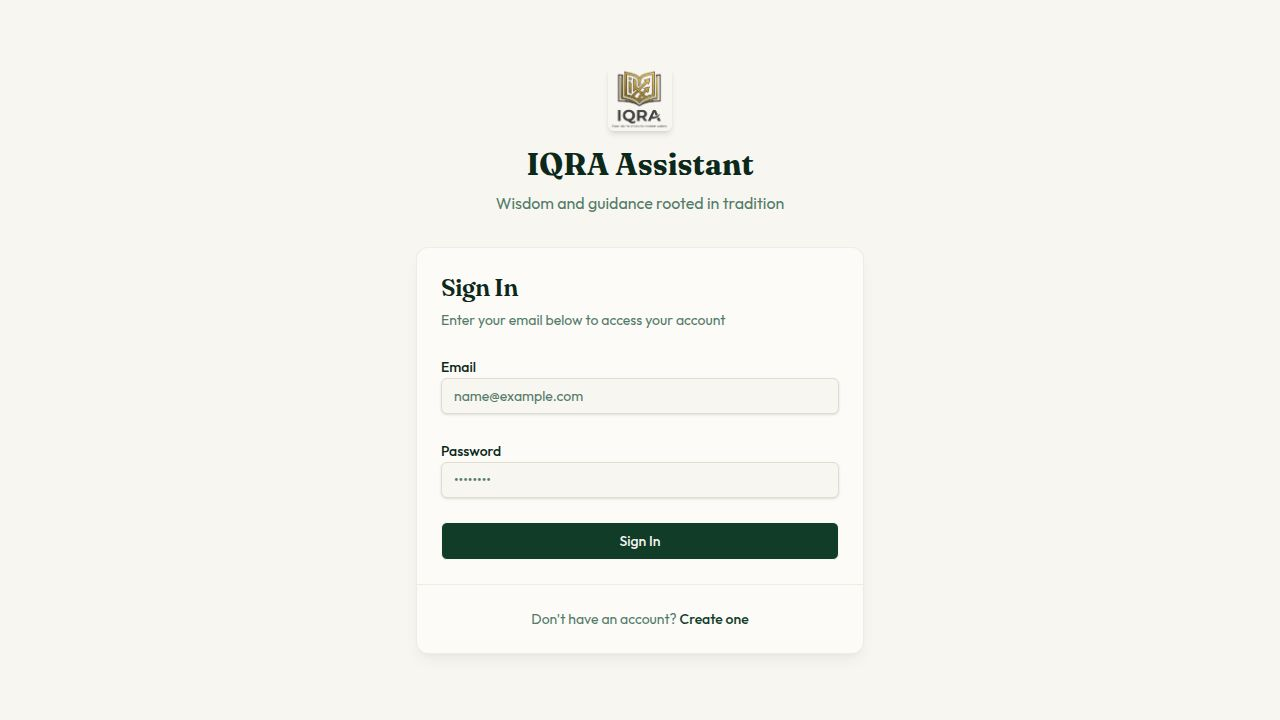
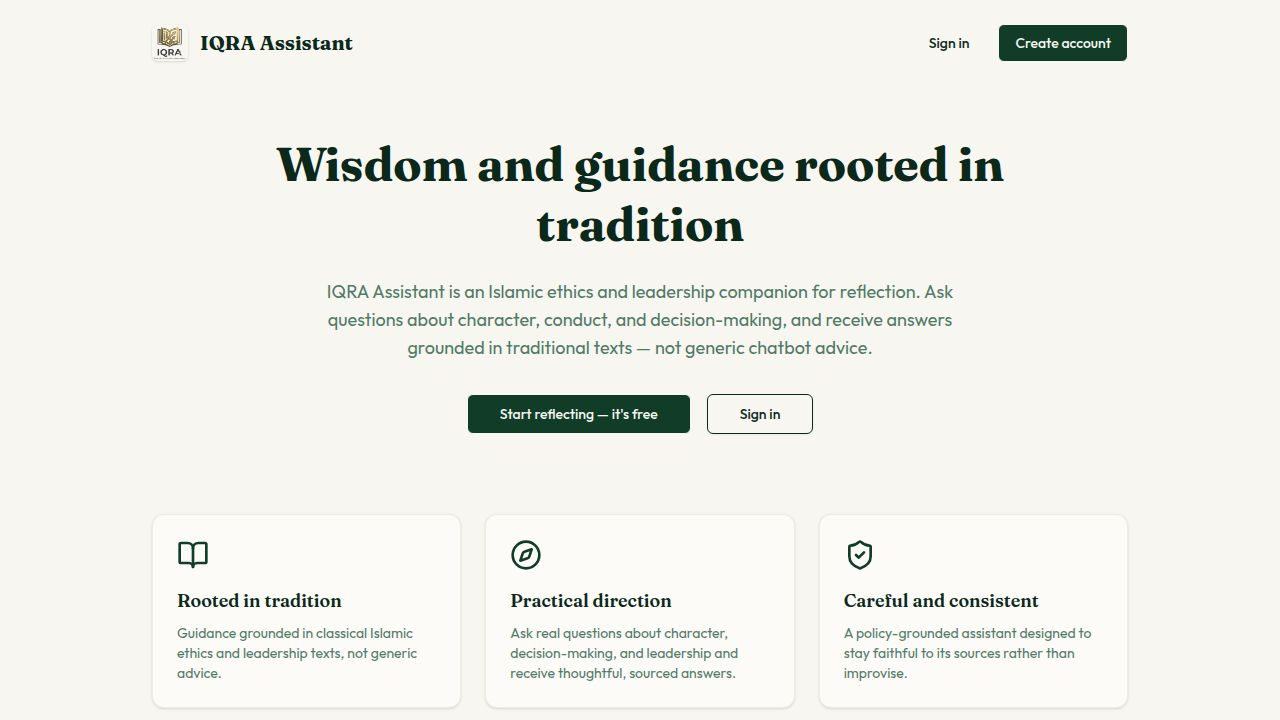
Merged changes from 7eo842wr/main
Replit-Task-Id: d5fe9a24-ad82-4526-b6fe-4df92f9617cc

diff --git a/artifacts/iqra-assistant/src/pages/landing.tsx b/artifacts/iqra-assistant/src/pages/landing.tsx
@@ -1,0 +1,96 @@
+import { Link } from "wouter";
+import { Button } from "@/components/ui/button";
+import { Card, CardContent } from "@/components/ui/card";
+import logoPng from "@/assets/logo.png";
+import { BookOpen, Compass, ShieldCheck } from "lucide-react";
+import { useSeo } from "@/hooks/use-seo";
+
+const PILLARS = [
+  {
+    icon: BookOpen,
+    title: "Rooted in tradition",
+    body: "Guidance grounded in classical Islamic ethics and leadership texts, not generic advice.",
+  },
+  {
+    icon: Compass,
+    title: "Practical direction",
+    body: "Ask real questions about character, decision-making, and leadership and receive thoughtful, sourced answers.",
+  },
+  {
+    icon: ShieldCheck,
+    title: "Careful and consistent",
+    body: "A policy-grounded assistant designed to stay faithful to its sources rather than improvise.",
+  },
+];
+
+export default function Landing() {
+  useSeo({
+    title: "IQRA Assistant — Islamic Ethics & Leadership Guidance",
+    description:
+      "IQRA Assistant offers wisdom and guidance rooted in traditional Islamic texts on ethics and leadership. Sign in or create a free account to start reflecting.",
+    robots: "index, follow",
+    canonicalPath: "/",
+  });
+
+  return (
+    <div className="min-h-screen bg-background">
+      <header className="flex items-center justify-between max-w-5xl mx-auto px-6 py-6">
+        <div className="flex items-center gap-3">
+          <img src={logoPng} alt="IQRA Assistant" className="w-9 h-9 rounded-md shadow-sm" />
+          <span className="font-serif text-xl font-bold text-foreground">IQRA Assistant</span>
+        </div>
+        <nav className="flex items-center gap-3">
+          <Link href="/login">
+            <Button variant="ghost" data-testid="link-nav-login">Sign in</Button>
+          </Link>
+          <Link href="/register">
+            <Button data-testid="link-nav-register">Create account</Button>
+          </Link>
+        </nav>
+      </header>
+
+      <main>
+        <section className="max-w-5xl mx-auto px-6 pt-12 pb-20 text-center">
+          <h1 className="font-serif text-4xl sm:text-5xl font-bold text-foreground leading-tight max-w-3xl mx-auto">
+            Wisdom and guidance rooted in tradition
+          </h1>
+          <p className="mt-6 text-lg text-muted-foreground max-w-2xl mx-auto">
+            IQRA Assistant is an Islamic ethics and leadership companion for reflection.
+            Ask questions about character, conduct, and decision-making, and receive
+            answers grounded in traditional texts — not generic chatbot advice.
+          </p>
+          <div className="mt-8 flex items-center justify-center gap-4">
+            <Link href="/register">
+              <Button size="lg" className="font-medium" data-testid="link-hero-register">
+                Start reflecting — it's free
+              </Button>
+            </Link>
+            <Link href="/login">
+              <Button size="lg" variant="outline" className="font-medium" data-testid="link-hero-login">
+                Sign in
+              </Button>
+            </Link>
+          </div>
+        </section>
+
+        <section className="max-w-5xl mx-auto px-6 pb-24 grid gap-6 sm:grid-cols-3">
+          {PILLARS.map(({ icon: Icon, title, body }) => (
+            <Card key={title} className="border-border/50 shadow-sm">
+              <CardContent className="pt-6">
+                <Icon className="w-8 h-8 text-primary mb-4" />
+                <h2 className="font-serif text-lg font-semibold text-foreground mb-2">{title}</h2>
+                <p className="text-sm text-muted-foreground">{body}</p>
+              </CardContent>
+            </Card>
+          ))}
+        </section>
+      </main>
+
+      <footer className="border-t border-border/50 py-8">
+        <p className="text-center text-sm text-muted-foreground">
+          &copy; {new Date().getFullYear()} IQRA Assistant
+        </p>
+      </footer>
+    </div>
+  );
+}

diff --git a/artifacts/iqra-assistant/src/entry-server.tsx b/artifacts/iqra-assistant/src/entry-server.tsx
@@ -1,0 +1,70 @@
+import type { ReactElement } from "react";
+import { QueryClient, QueryClientProvider } from "@tanstack/react-query";
+import { TooltipProvider } from "@/components/ui/tooltip";
+import { Router as WouterRouter } from "wouter";
+import Landing from "@/pages/landing";
+import Login from "@/pages/login";
+import Register from "@/pages/register";
+import "./index.css";
+
+export interface PrerenderedRoute {
+  path: string;
+  outFile: string;
+  title: string;
+  description: string;
+  robots: string;
+  canonicalPath: string;
+  Component: () => ReactElement;
+}
+
+// Anonymous, JS-free-friendly routes that get a build-time prerendered
+// static HTML shell (see scripts/prerender.mjs). Authenticated routes
+// (chat, donate, admin) depend on live session/data fetches and are
+// intentionally left to render purely client-side.
+export const PRERENDER_ROUTES: PrerenderedRoute[] = [
+  {
+    path: "/",
+    outFile: "index.html",
+    title: "IQRA Assistant — Islamic Ethics & Leadership Guidance",
+    description:
+      "IQRA Assistant offers wisdom and guidance rooted in traditional Islamic texts on ethics and leadership. Sign in or create a free account to start reflecting.",
+    robots: "index, follow",
+    canonicalPath: "/",
+    Component: Landing,
+  },
+  {
+    path: "/login",
+    outFile: "login/index.html",
+    title: "Sign In — IQRA Assistant",
+    description:
+      "Sign in to your IQRA Assistant account to continue your conversations on Islamic ethics and leadership.",
+    robots: "noindex, follow",
+    canonicalPath: "/login",
+    Component: Login,
+  },
+  {
+    path: "/register",
+    outFile: "register/index.html",
+    title: "Create Account — IQRA Assistant",
+    description:
+      "Create a free IQRA Assistant account to start receiving guidance rooted in traditional Islamic ethics and leadership texts.",
+    robots: "noindex, follow",
+    canonicalPath: "/register",
+    Component: Register,
+  },
+];
+
+export function renderRoute(route: PrerenderedRoute) {
+  const queryClient = new QueryClient();
+  const { Component } = route;
+
+  return (
+    <QueryClientProvider client={queryClient}>
+      <TooltipProvider>
+        <WouterRouter base="" ssrPath={route.path}>
+          <Component />
+        </WouterRouter>
+      </TooltipProvider>
+    </QueryClientProvider>
+  );
+}

diff --git a/artifacts/iqra-assistant/src/hooks/use-seo.ts b/artifacts/iqra-assistant/src/hooks/use-seo.ts
@@ -1,0 +1,60 @@
+import { useEffect } from "react";
+
+export interface SeoOptions {
+  title: string;
+  description: string;
+  robots?: string;
+  canonicalPath?: string;
+}
+
+const SITE_ORIGIN = "https://iqra.live";
+
+function setMetaByName(name: string, content: string) {
+  let el = document.head.querySelector<HTMLMetaElement>(`meta[name="${name}"]`);
+  if (!el) {
+    el = document.createElement("meta");
+    el.setAttribute("name", name);
+    document.head.appendChild(el);
+  }
+  el.setAttribute("content", content);
+}
+
+function setMetaByProperty(property: string, content: string) {
+  let el = document.head.querySelector<HTMLMetaElement>(`meta[property="${property}"]`);
+  if (!el) {
+    el = document.createElement("meta");
+    el.setAttribute("property", property);
+    document.head.appendChild(el);
+  }
+  el.setAttribute("content", content);
+}
+
+function setCanonical(href: string) {
+  let el = document.head.querySelector<HTMLLinkElement>('link[rel="canonical"]');
+  if (!el) {
+    el = document.createElement("link");
+    el.setAttribute("rel", "canonical");
+    document.head.appendChild(el);
+  }
+  el.setAttribute("href", href);
+}
+
+/**
+ * Applies route-specific head metadata on the client. This keeps <title>,
+ * description, robots directives, and canonical URL correct when navigating
+ * between routes without a full page reload. The *initial* HTML response for
+ * "/", "/login", and "/register" is additionally prerendered at build time
+ * (see scripts/prerender.mjs) so crawlers that don't execute JavaScript still
+ * see the correct per-route tags and content.
+ */
+export function useSeo({ title, description, robots = "index, follow", canonicalPath = "/" }: SeoOptions) {
+  useEffect(() => {
+    document.title = title;
+    setMetaByName("description", description);
+    setMetaByName("robots", robots);
+    setMetaByProperty("og:title", title);
+    setMetaByProperty("og:description", description);
+    const canonicalHref = `${SITE_ORIGIN}${canonicalPath}`;
+    setCanonical(canonicalHref);
+  }, [title, description, robots, canonicalPath]);
+}

diff --git a/artifacts/iqra-assistant/src/App.tsx b/artifacts/iqra-assistant/src/App.tsx
@@ -6,6 +6,7 @@ import { AuthProvider, useAuth } from "@/hooks/use-auth";
 import NotFound from "@/pages/not-found";
 import Login from "@/pages/login";
 import Register from "@/pages/register";
+import Landing from "@/pages/landing";
 import Chat from "@/pages/chat";
 import Donate from "@/pages/donate";
 import ThankYou from "@/pages/thank-you";
@@ -35,15 +36,32 @@ function ProtectedRoute({ component: Component, adminOnly = false }: { component
   return <Component />;
 }
 
+// The root route serves both the public marketing landing page (anonymous,
+// indexable) and the authenticated chat app, at the same stable URL ("/").
+// The prerendered static HTML shipped for "/" shows the anonymous Landing
+// state so crawlers see real content immediately; once the client loads it
+// swaps in Chat for signed-in users.
+function Home() {
+  const { user, isLoading } = useAuth();
+
+  if (isLoading) {
+    return (
+      <div className="min-h-screen bg-background flex items-center justify-center">
+        <div className="w-8 h-8 border-4 border-primary border-t-transparent rounded-full animate-spin"></div>
+      </div>
+    );
+  }
+
+  return user ? <Chat /> : <Landing />;
+}
+
 function Router() {
   return (
     <Switch>
       <Route path="/login" component={Login} />
       <Route path="/register" component={Register} />
       
-      <Route path="/">
-        {() => <ProtectedRoute component={Chat} />}
-      </Route>
+      <Route path="/" component={Home} />
       <Route path="/donate">
         {() => <ProtectedRoute component={Donate} />}
       </Route>

diff --git a/artifacts/iqra-assistant/src/pages/register.tsx b/artifacts/iqra-assistant/src/pages/register.tsx
@@ -11,6 +11,7 @@ import { useToast } from "@/hooks/use-toast";
 import logoPng from "@/assets/logo.png";
 import { Loader2 } from "lucide-react";
 import { Card, CardContent, CardDescription, CardHeader, CardTitle, CardFooter } from "@/components/ui/card";
+import { useSeo } from "@/hooks/use-seo";
 
 const registerSchema = z.object({
   name: z.string().min(2, { message: "Name must be at least 2 characters." }),
@@ -19,6 +20,12 @@ const registerSchema = z.object({
 });
 
 export default function Register() {
+  useSeo({
+    title: "Create Account — IQRA Assistant",
+    description: "Create a free IQRA Assistant account to start receiving guidance rooted in traditional Islamic ethics and leadership texts.",
+    robots: "noindex, follow",
+    canonicalPath: "/register",
+  });
   const [, setLocation] = useLocation();
   const { toast } = useToast();
   const queryClient = useQueryClient();

diff --git a/artifacts/iqra-assistant/src/pages/login.tsx b/artifacts/iqra-assistant/src/pages/login.tsx
@@ -13,6 +13,7 @@ import { useToast } from "@/hooks/use-toast";
 import logoPng from "@/assets/logo.png";
 import { Loader2 } from "lucide-react";
 import { Card, CardContent, CardDescription, CardHeader, CardTitle, CardFooter } from "@/components/ui/card";
+import { useSeo } from "@/hooks/use-seo";
 
 const loginSchema = z.object({
   email: z.string().email({ message: "Please enter a valid email address." }),
@@ -20,6 +21,12 @@ const loginSchema = z.object({
 });
 
 export default function Login() {
+  useSeo({
+    title: "Sign In — IQRA Assistant",
+    description: "Sign in to your IQRA Assistant account to continue your conversations on Islamic ethics and leadership.",
+    robots: "noindex, follow",
+    canonicalPath: "/login",
+  });
   const [, setLocation] = useLocation();
   const { toast } = useToast();
   const queryClient = useQueryClient();
